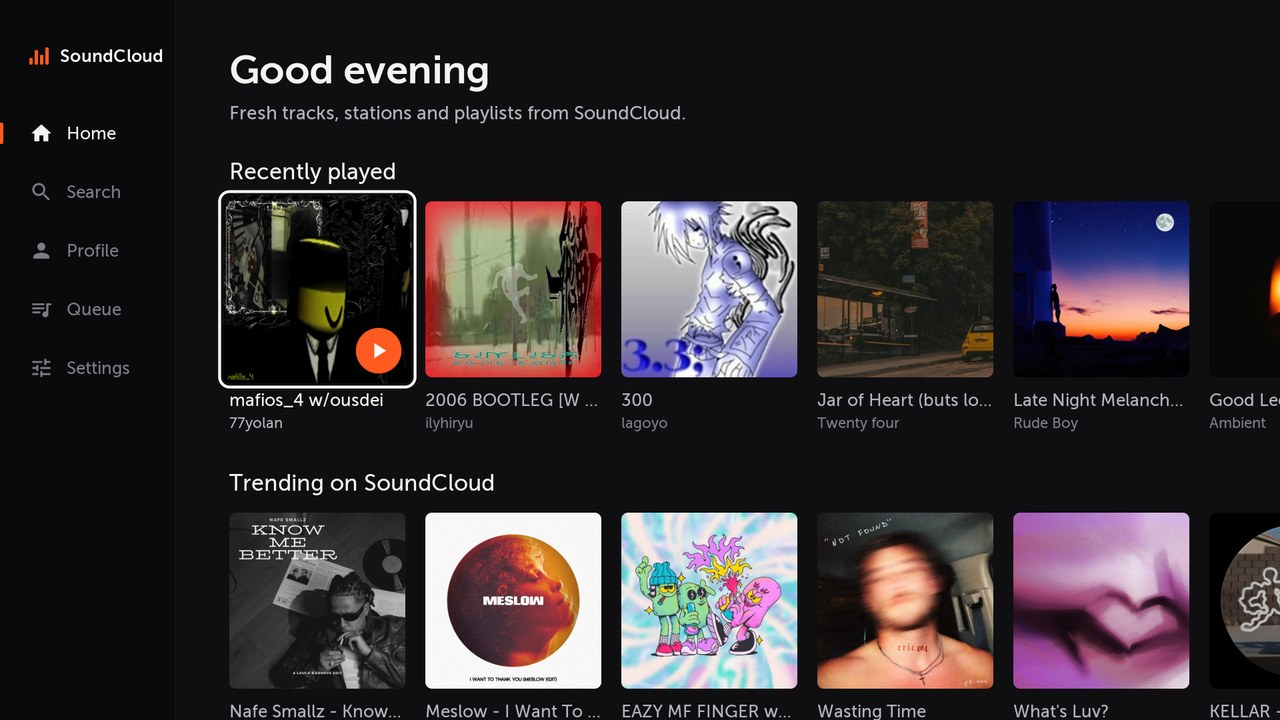
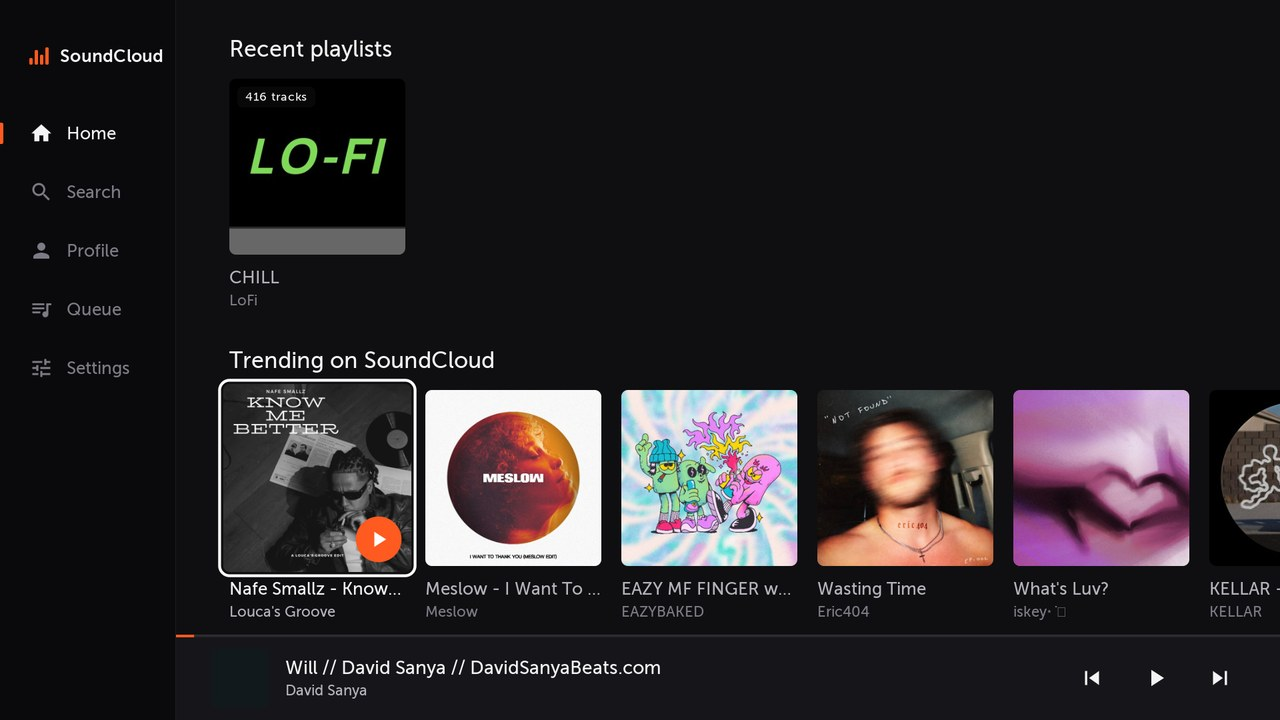
Home refreshes its recent rows and the first profile's likes when shown; 1.3.0 verified on the TV
- The two recent rows live in their own box and are redrawn when Home is shown
  again, so a playlist or track played this session appears without a restart
- Home rebuilds when the first linked profile changes
- New Home screenshot; notes updated with the on-TV run

diff --git a/app/js/views.js b/app/js/views.js
@@ -237,12 +237,27 @@
     var status = spinner("Loading music…");
     rows.appendChild(status);
 
+    // The two "recent" rows change while the app is open, so they live in their own box and are
+    // redrawn when Home is shown again; the rest of Home (and the place on it) stays as it was.
+    var recentBox = null, recentSig = "", builtProfile = 0;
+    function recentNow() {
+      var r = SC.store.get("recent", []), s = SC.store.get("recent_sets", []);
+      return { tracks: r, sets: s, sig: r.length + ":" + (r[0] ? r[0].id : "") + "|" + s.length + ":" + (s[0] ? s[0].id : "") };
+    }
+    function fillRecent(counts) {
+      var n = recentNow();
+      SC.clear(recentBox);
+      if (n.tracks.length) recentBox.appendChild(row("Recently played", n.tracks));
+      if (n.sets.length) recentBox.appendChild(row("Recent playlists", n.sets));
+      recentSig = n.sig;
+      if (counts) { counts.recent = n.tracks.length; counts.recentSets = n.sets.length; }
+    }
     function build() {
       SC.clear(rows);
       rows.appendChild(status);
       var recent = SC.store.get("recent", []);
-      var recentSets = SC.store.get("recent_sets", []);
       var profile = SC.profiles.list()[0];
+      builtProfile = profile ? profile.id : 0;
       var jobs = [], counts = {};
       function add(name, promise, render) {
         var s = slot(rows);
@@ -254,8 +269,9 @@
         }, function (e) { counts[name] = "error:" + e.message; s.drop(); return false; });
         jobs.push(j);
       }
-      if (recent.length) add("recent", Promise.resolve(recent), function (d) { return row("Recently played", d); });
-      if (recentSets.length) add("recentSets", Promise.resolve(recentSets), function (d) { return row("Recent playlists", d); });
+      recentBox = el("div", "rowgroup");
+      rows.appendChild(recentBox);
+      fillRecent(counts);
       add("trending", api.trending("all-music", 20), function (d) { return d.length ? row("Trending on SoundCloud", d) : null; });
       if (recent.length) {
         add("related", api.related(recent[0].id, 20), function (d) {
@@ -299,7 +315,15 @@
     }
     function wrap(frag) { var d = el("div", "rowgroup"); d.appendChild(frag); return d; }
     build();
-    return { el: p.el, scroller: p.scroller, refresh: build };
+    return { el: p.el, scroller: p.scroller, refresh: build,
+      onShow: function () {
+        var first = SC.profiles.list()[0];
+        if ((first ? first.id : 0) !== builtProfile) { build(); return; }   // "Liked by" follows the first profile
+        if (!recentBox || recentNow().sig === recentSig) return;
+        var had = recentBox.contains(nav.current());
+        fillRecent(null);
+        if (had) nav.focusFirst(p.el);
+      } };
   };
 
   // ---------- Search ----------

diff --git a/docs/DEVELOPMENT.md b/docs/DEVELOPMENT.md
@@ -182,5 +182,6 @@ track, and autoplay of related tracks when the queue ends, with no faults in the
 three bundled fonts load there and the samples in "Fancy titles, symbols and emoji" draw. Other TVs
 and webOS versions are untested.
 
-1.3.0 (natural end of track, profiles, recent playlists, scrolling) has so far been tested in
-desktop Chrome only, where the whole self-test passes, `natural-end` included.
+1.3.0 was run there too: the full self-test including `natural-end` (two tracks in a row left to
+finish, the next one starting by itself each time, detected by `via=duration`), adding a profile by
+name search, and the Home rows refreshing without a restart.
